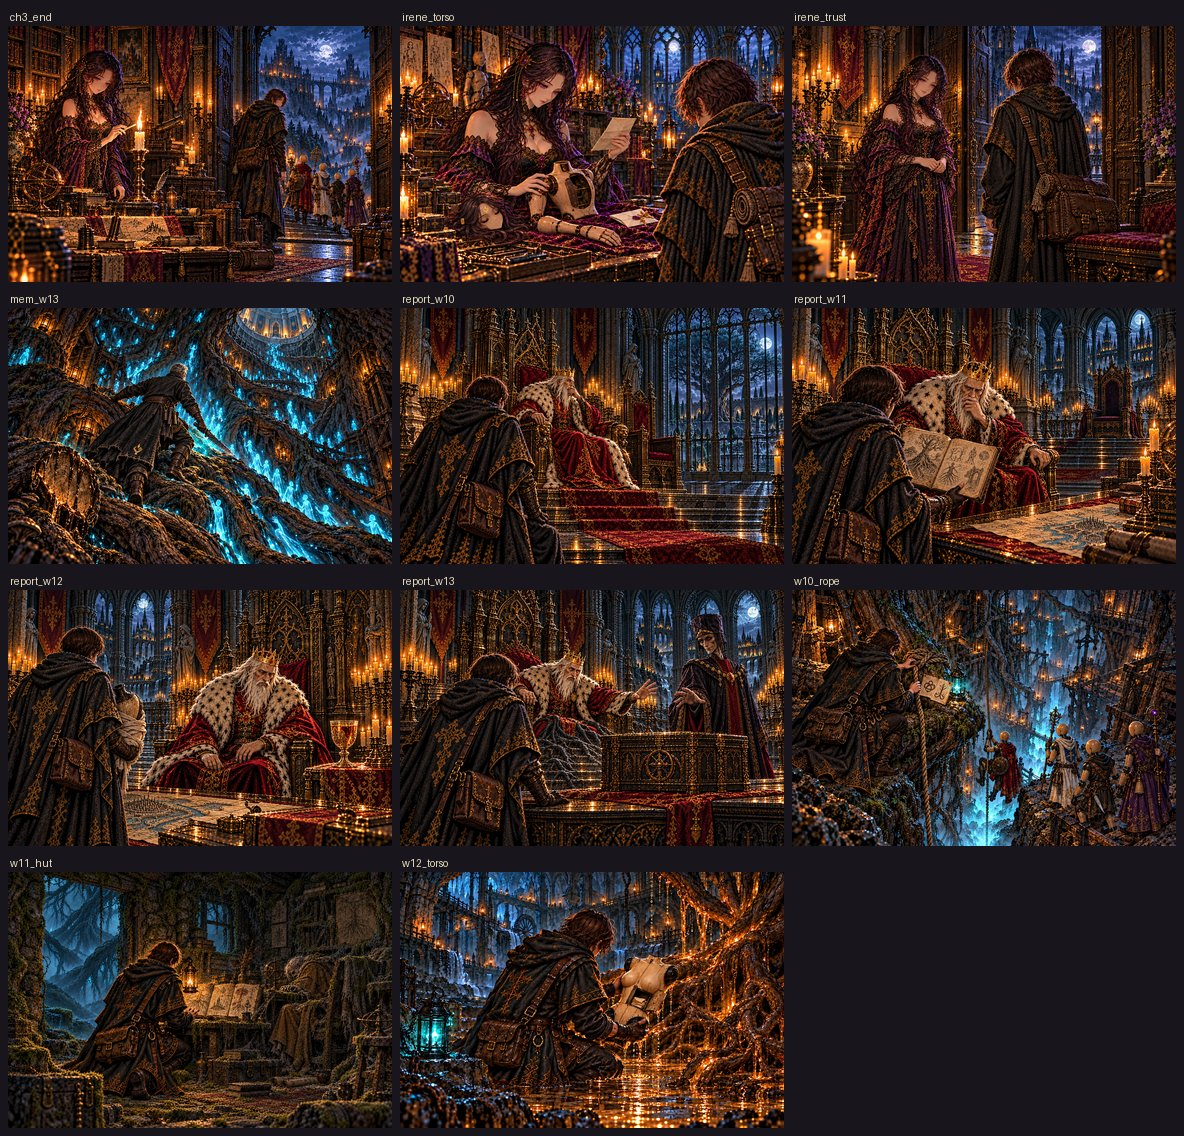
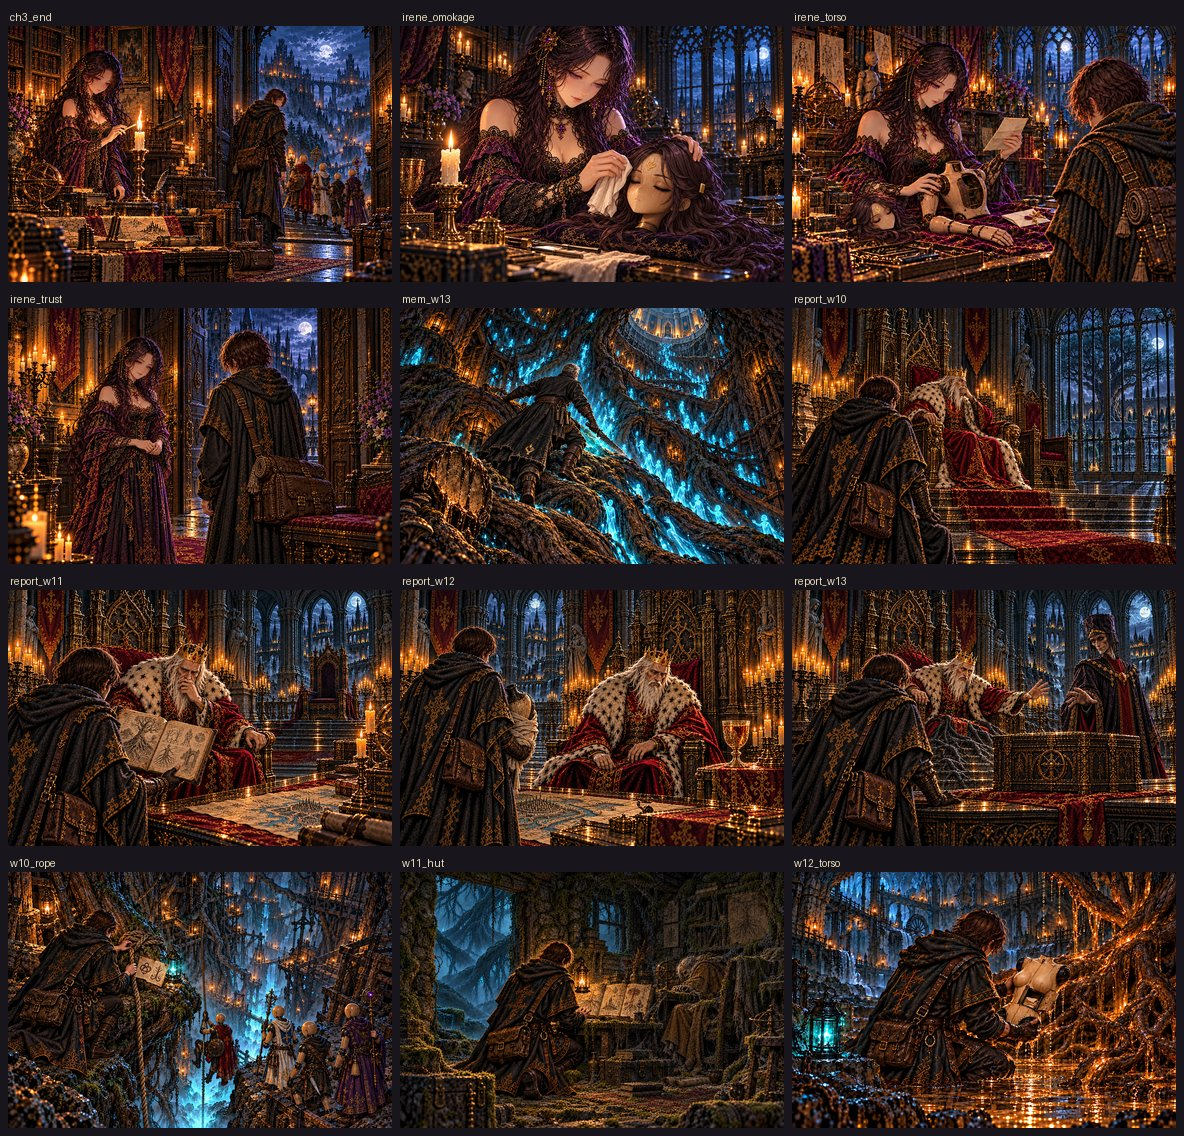
第三章の館の語り「彫られた顔」に専用イラストを追加

diff --git a/src/archive-stories.js b/src/archive-stories.js
@@ -214,6 +214,11 @@ export const ARCHIVE_STORIES = [
     "大穴の縁で、隊の灯が順に揺れた。今度こそ魂脈の根へ。百年前の命令を、今も続く仕事のままにしておくことはできなかった。",
   ]),
 
+  scene("irene_omokage", 3, "彫られた顔", beat("irene_omokage"), "workshop", "seraHead", [
+    "燭台のそばで、イレーヌはセラの頭を柔らかい布でぬぐっていた。長い黒髪が灯に光る。人業の顔は、丸い木に宿った魂の姿が映ったものだと、彼女は教えてくれた。",
+    "けれどセラは、自分の顔を欲しがった。師はその願いを聞いて、木に顔を彫り、髪を植えたのだという。眠ったままの木の頬には、誰かに望まれ、誰かの手で仕立てられた形が残っていた。",
+    "魂は、これまでに宿った姿を面影として覚えている。イレーヌはその面影を、弟子の人業たちにも写せるという。好きな顔で帰ってきてほしい。その言葉とともに、館でできる支度が一つ増えた。",
+  ], {people:"irene"}),
   scene("w10_rope", 3, "二人が降りた綱", found("w10_rope"), "roots", "rope", [
     "縦穴に絡む根の一本に、綱が結ばれていた。弟子は結び目を見て師の手を思い出した。重い荷でも解けず、必要な時にはほどける結び方だった。",
     "書きつけには、根が一つの幹へ通じることが記されていた。師の言葉の下には、セラが短く返した文字がある。二人がここで同じ紙を見たのだ。",

diff --git a/src/storyimages.js b/src/storyimages.js
@@ -38,6 +38,7 @@ export const STORY_IMAGES = {
   report_w09: "art/story/chapter2/report_w09.webp",
   irene_roots: "art/story/chapter2/irene_roots.webp",
   ch2_end: "art/story/chapter2/ch2_end.webp",
+  irene_omokage: "art/story/chapter3/irene_omokage.webp",
   w10_rope: "art/story/chapter3/w10_rope.webp",
   report_w10: "art/story/chapter3/report_w10.webp",
   w11_hut: "art/story/chapter3/w11_hut.webp",

diff --git a/sw.js b/sw.js
@@ -127,6 +127,7 @@ const ASSETS = [
   "./art/story/chapter2/report_w09.webp",
   "./art/story/chapter2/irene_roots.webp",
   "./art/story/chapter2/ch2_end.webp",
+  "./art/story/chapter3/irene_omokage.webp",
   "./art/story/chapter3/w10_rope.webp",
   "./art/story/chapter3/report_w10.webp",
   "./art/story/chapter3/w11_hut.webp",

diff --git a/art/story-review/review/chapter3.md b/art/story-review/review/chapter3.md
@@ -3,6 +3,42 @@
 書き出し: `node tools/storyart/review.mjs` (手で直さない)。絵は出荷する WebP、まだ無ければ原画。
 ゲームで小さく出た時の見え方 (384×256): [chapter3-small.jpg](chapter3-small.jpg)
 
+<a name="irene_omokage"></a>
+
+## irene_omokage「彫られた顔」 ── 出荷済み
+
+<img src="../../../art/story/chapter3/irene_omokage.webp" width="576" alt="irene_omokage">
+
+**ストーリー一覧の本文**
+
+> 燭台のそばで、イレーヌはセラの頭を柔らかい布でぬぐっていた。長い黒髪が灯に光る。人業の顔は、丸い木に宿った魂の姿が映ったものだと、彼女は教えてくれた。
+>
+> けれどセラは、自分の顔を欲しがった。師はその願いを聞いて、木に顔を彫り、髪を植えたのだという。眠ったままの木の頬には、誰かに望まれ、誰かの手で仕立てられた形が残っていた。
+>
+> 魂は、これまでに宿った姿を面影として覚えている。イレーヌはその面影を、弟子の人業たちにも写せるという。好きな顔で帰ってきてほしい。その言葉とともに、館でできる支度が一つ増えた。
+
+**ゲーム内 (館の語り IRENE_BEATS.irene_omokage)**
+
+> 館の主は、燭台のそばのセラの頭を、柔らかい布でぬぐっていた。長い黒髪が、灯を受けて光った。
+>
+> イレーヌ「人業の頭は、もとは何も彫られていない、丸い木なのです。顔に見えるのは、宿った魂の姿が映っているだけです。」
+>
+> イレーヌ「けれどセラは、自分の顔を欲しがりました。それでオルド様が、この顔を彫って、髪を植えたのです。」
+>
+> イレーヌ「魂は、これまでに宿った姿をすべて覚えています。わたしたちは、それを『面影』と呼んでいます。」
+>
+> イレーヌ「写し方は、オルド様のそばで覚えました。魂が覚えている面影なら、あなたの子たちの顔に写してあげられます。」
+>
+> イレーヌ「次に潜る前に、どうぞ。……好きな顔で、帰ってきてほしいのです。」
+>
+> ── 「面影の写し」ができるようになった。人業の館で、人業の肖像を押すと選べる。
+
+**指示書 (4章)**
+
+- 要点: 第三章の入口。イレーヌが燭台のそばでセラの頭を柔らかい布でぬぐい、人業の顔と「面影の写し」を教える。
+- 描くもの: 既存の館の作業台 / イレーヌ / 台の柔らかい布に寝かせたセラの頭と本物の長い黒髪 / 彫られた木の顔・閉じた目・額の小さな金の印 / 真鍮の燭台の一本の白い蝋燭。
+- 描かないもの: セラの胴・脚・目覚めた全身、胸の魂火、血や傷、宙に浮く顔、鏡や選択画面、読める文字。師は登場させない。
+
 <a name="w10_rope"></a>
 
 ## w10_rope「二人が降りた綱」 ── 出荷済み (任意の修正あり)
@@ -119,7 +155,7 @@
 >
 > 「三百年、根に水をやる庭師。……モルデンが王家に仕えたのは、余が生まれる前からだ。」
 >
-> 「苗床も底の森も見たそなたになら、大樹の根元への道を開かせよう。」
+> 森と苗床の探索の記録を地図に重ねると、大樹の根元へ続く道筋が見えてきた。
 
 **修正 (任意)**
 
@@ -177,7 +213,7 @@
 >
 > 「オルドの人業の胴を見つけたか。館の主に返してやれ。……その子は、オルドをかばったのだろう。」
 >
-> 「底の森も苗床も見たそなたになら、大樹の根元への道を開かせよう。」
+> 森と苗床の探索の記録を地図に重ねると、大樹の根元へ続く道筋が見えてきた。
 
 **修正 (任意)**
 

diff --git a/docs/art/codex-story-art-brief.md b/docs/art/codex-story-art-brief.md
@@ -514,6 +514,14 @@ Character reference sheet on a plain dark slate-blue background with soft even l
 
 ## 4. 便2・便3 ― 第5〜8章の新規 42場面
 
+**irene_omokage「彫られた顔」** (第三章 / 館の語り)
+- 要点: 第三章の入口。イレーヌが燭台のそばでセラの頭を柔らかい布でぬぐい、人業の顔と「面影の写し」を教える。
+- 描くもの: 既存の館の作業台 / イレーヌ / 台の柔らかい布に寝かせたセラの頭と本物の長い黒髪 / 彫られた木の顔・閉じた目・額の小さな金の印 / 真鍮の燭台の一本の白い蝋燭。
+- 描かないもの: セラの胴・脚・目覚めた全身、胸の魂火、血や傷、宙に浮く顔、鏡や選択画面、読める文字。師は登場させない。
+```text
+Inside the same gothic mansion workshop, Irene gently wipes Sera's detached wooden head with a soft ivory cloth beside a single white candle on a brass candlestick. Irene has the exact face, long purple-sheened black hair, purple eyes, gold-and-purple jeweled hair ornament and purple-and-black lace gown of the approved Irene reference. Both her hands are naturally positioned: one steadies the head on the padded cloth on the table, the other holds the wiping cloth against the wooden cheek. Sera is still asleep: ONLY her detached head rests on folded dark velvet, with long wavy near-black REAL hair spread softly across the table, carved wooden facial features, visible wood grain and closed eyelids. Match Sera's face and real hair to the Sera reference, translated into the established adult-proportioned story illustration style. At the center of Sera's forehead, show a small gold approved geometric lamp-on-palm crest: angular cupped palm, one thumb projection on the left, three parallel slanted finger projections on the right, short wrist below, one separate teardrop flame above. The candlelight reveals the carved cheek and the fine real hair, the two narrative focal details, clearly readable at thumbnail size. Frame a tender quiet medium-close scene centered on Irene's careful hands and Sera's head, with Irene's gentle face above and the candle beside them. Rich restrained amber candlelight and cool blue window light, carved wood, purple fabric and gothic stone consistent with the mansion reference. This is a crafted wooden doll part lovingly cared for, with a clean wooden neck base. No torso, legs, awakened Sera, blue soul-fire, gore, floating faces, mirrors, interface, or readable text. No Ordo.
+```
+
 ### 序章改訂の追加場面（2026-10-13・制作保留）
 
 ユーザー指定により**今回は画像を作成しない**。新版の進行・修正対象の一覧は `docs/prologue-revision.md`。最初の三体は戦士・僧侶・盗賊、四体目は魔導士、五体目は騎士、六体目は司教。下記は後日の制作指示のみ。

diff --git a/art/story-review/review/status.md b/art/story-review/review/status.md
@@ -2,7 +2,7 @@
 
 書き出し: `node tools/storyart/review.mjs` (build.py も書き直す。手で直さない)。
 
-場面: 出荷済み 104 ・ 出荷済み (任意の修正あり) 11 ・ 未着手 (指示あり) 22
+場面: 出荷済み 105 ・ 出荷済み (任意の修正あり) 11 ・ 未着手 (指示あり) 22
 
 | 章 | 場面 | 題 | 状態 | 確認ページ |
 |---|---|---|---|---|
@@ -43,6 +43,7 @@
 | 第2章「捨て砦」 | `report_w09` | 先代という仮面 | 出荷済み | [見る](chapter2.md#report_w09) |
 | 第2章「捨て砦」 | `irene_roots` | 両手で囲った夜 | 出荷済み | [見る](chapter2.md#irene_roots) |
 | 第2章「捨て砦」 | `ch2_end` | 百年の底へ | 出荷済み | [見る](chapter2.md#ch2_end) |
+| 第3章「魂脈の根」 | `irene_omokage` | 彫られた顔 | 出荷済み | [見る](chapter3.md#irene_omokage) |
 | 第3章「魂脈の根」 | `w10_rope` | 二人が降りた綱 | 出荷済み (任意の修正あり) | [見る](chapter3.md#w10_rope) |
 | 第3章「魂脈の根」 | `report_w10` | 庭へ出られない王 | 出荷済み | [見る](chapter3.md#report_w10) |
 | 第3章「魂脈の根」 | `w11_hut` | 三代の師弟が残す頁 | 出荷済み | [見る](chapter3.md#w11_hut) |

diff --git a/docs/story-art-plan.md b/docs/story-art-plan.md
@@ -1,5 +1,9 @@
 # ストーリー専用イラストの制作台帳
 
+## 第三章の入口「彫られた顔」 (2026-10-15)
+
+`irene_omokage` の専用原画を制作。イレーヌが燭台のそばで、セラの木彫りの顔を布でぬぐう場面。本物の長い黒髪・額の金の印・一本の白い蝋燭を既存の基準に合わせた。1536×1024の原画から品質88のWebPを生成し、イベント・ストーリー一覧・SWへ登録。語りを聞いた記録で解放する一覧の場面と制作指示を追加した。確認ページは [chapter3.md](../art/story-review/review/chapter3.md#irene_omokage)。
+
 ## 依頼の迷宮5か所の由来 (2026-10-14)
 
 銀業の隠れ里 `ws4`、獄吏の詰所 `ws7`、沈んだ書庫 `ws8`、黒曜の切り場 `ws9`、火守りの僧院 `ws10` の専用原画を、由来本文と `prompt.mjs` の制作指示に合わせて制作した。各1536×1024、出荷は品質88のWebPで合計約2.3MB。踏破後の由来と出撃画面へ適用し、SWにも登録済み。本文との照合・スマホ/PC表示・取得失敗時の旧情景への復帰を確認。制作記録は [five-side-dungeons-review.md](../art/story-review/dungeons/five-side-dungeons-review.md)。
